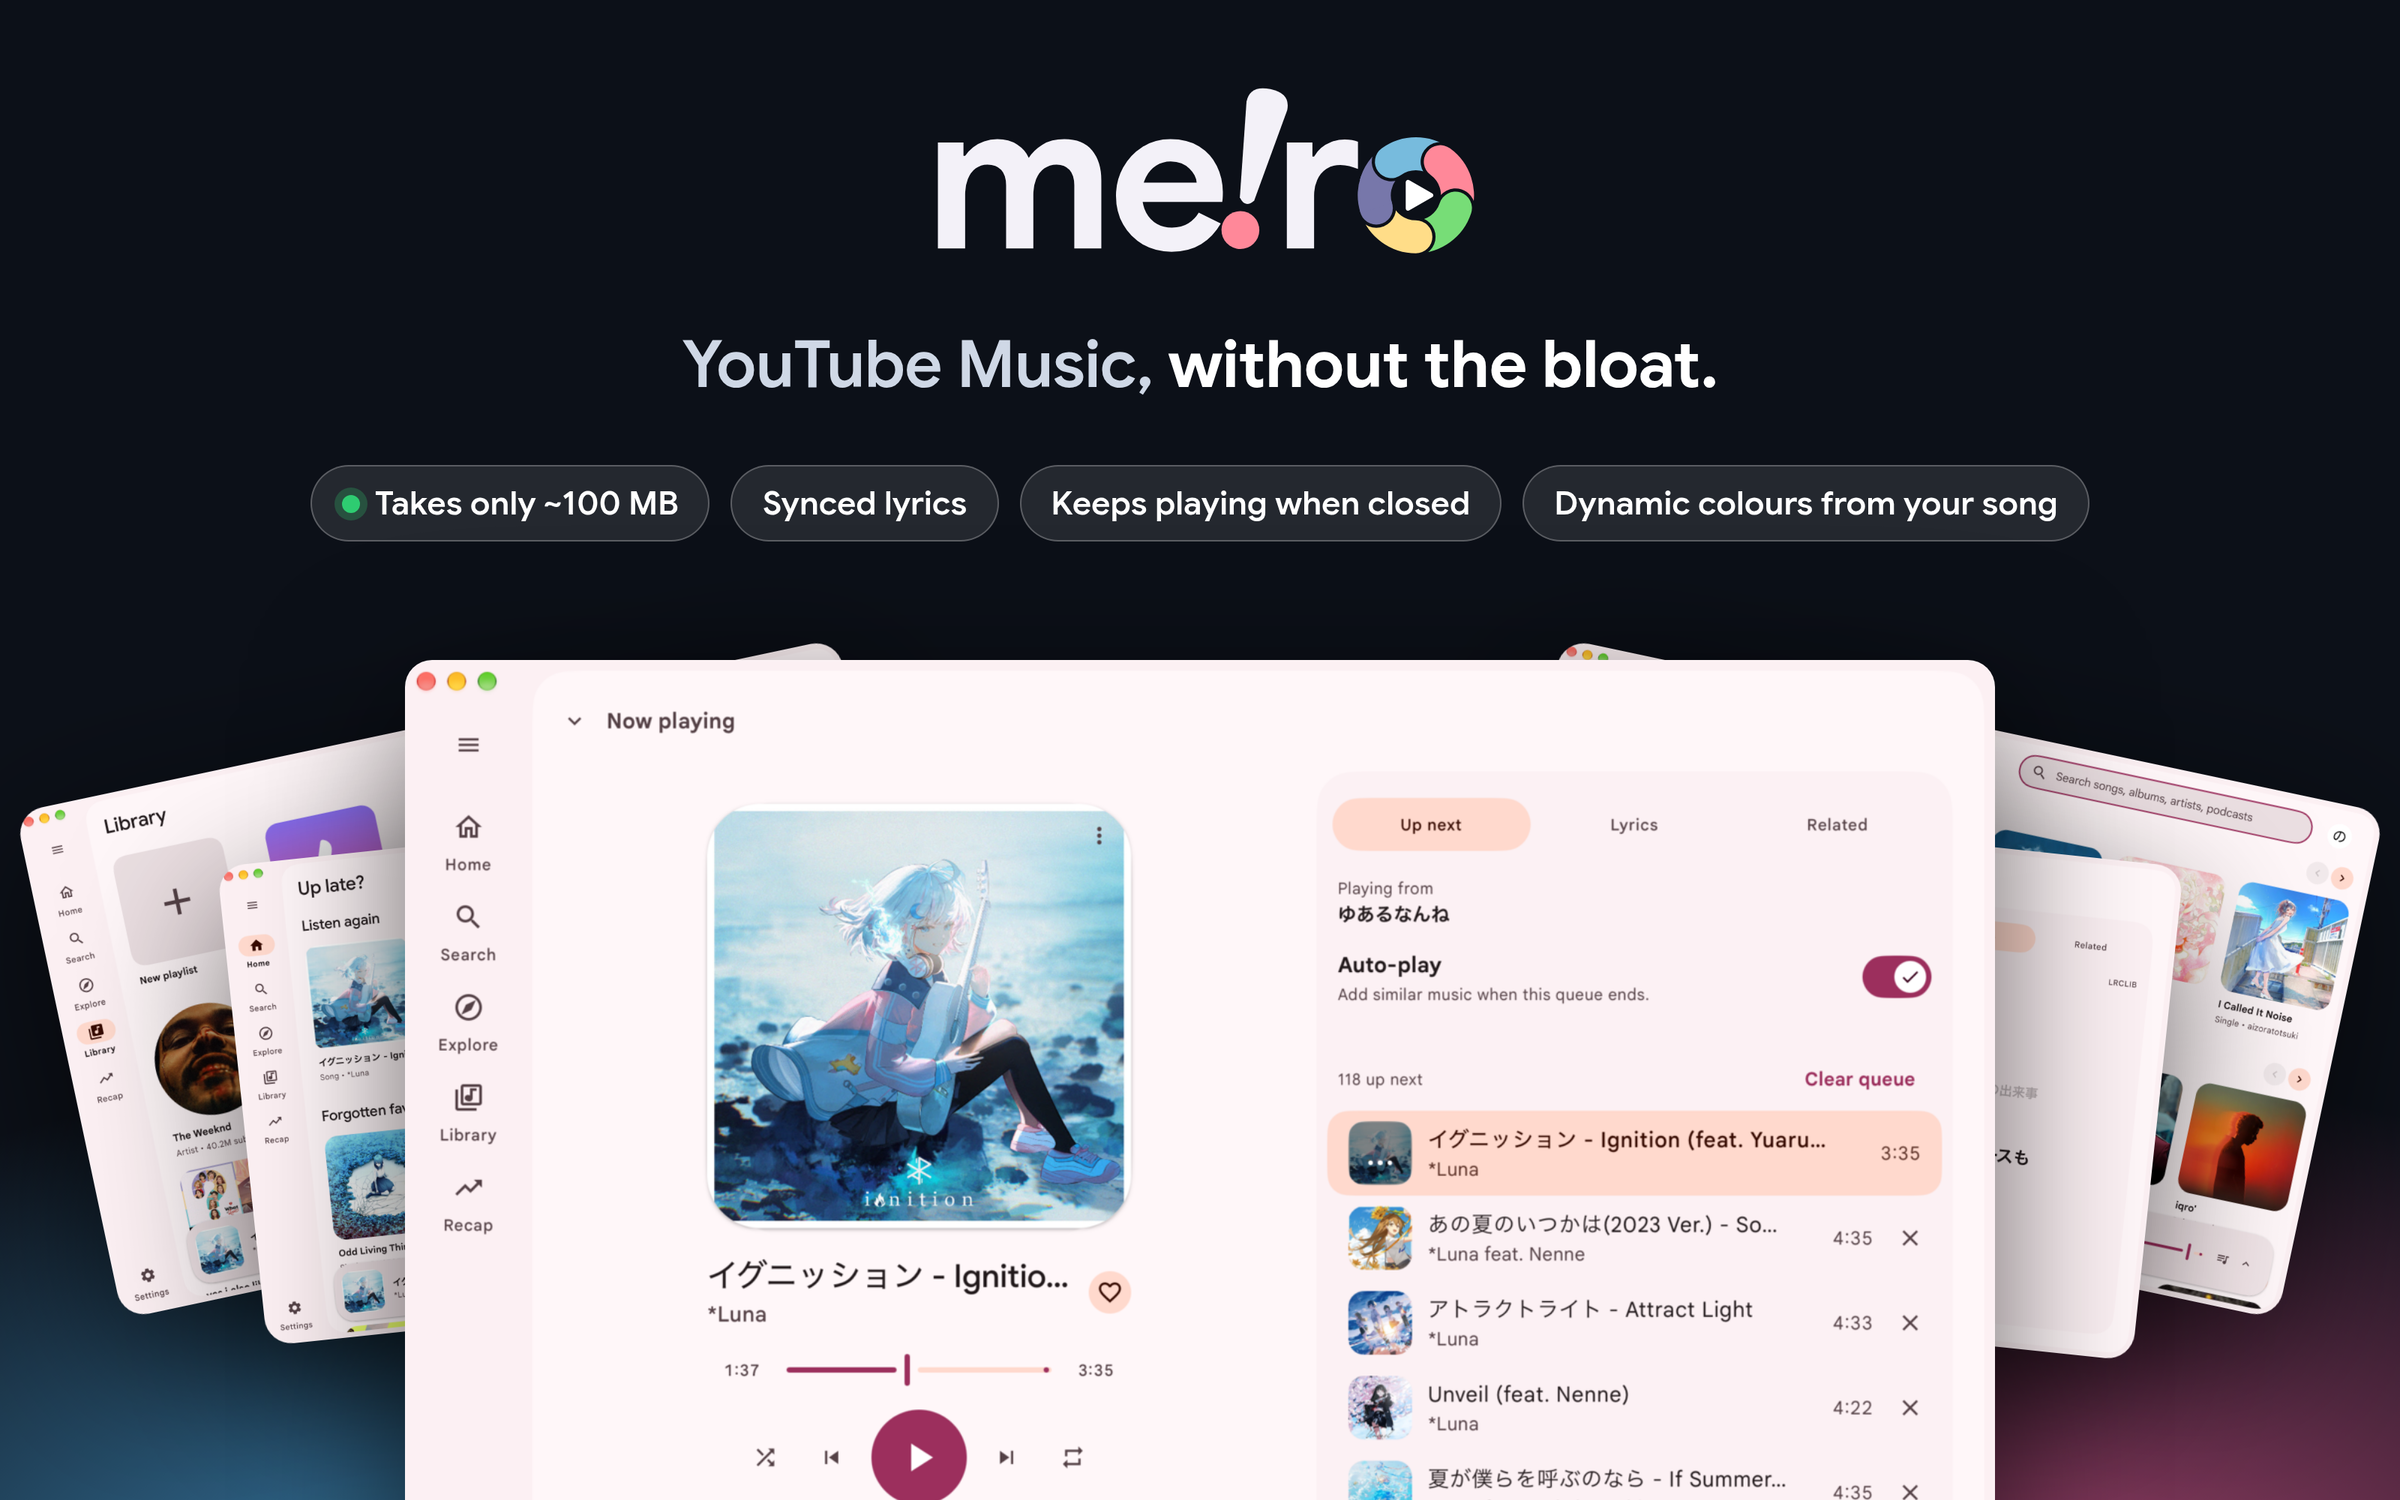
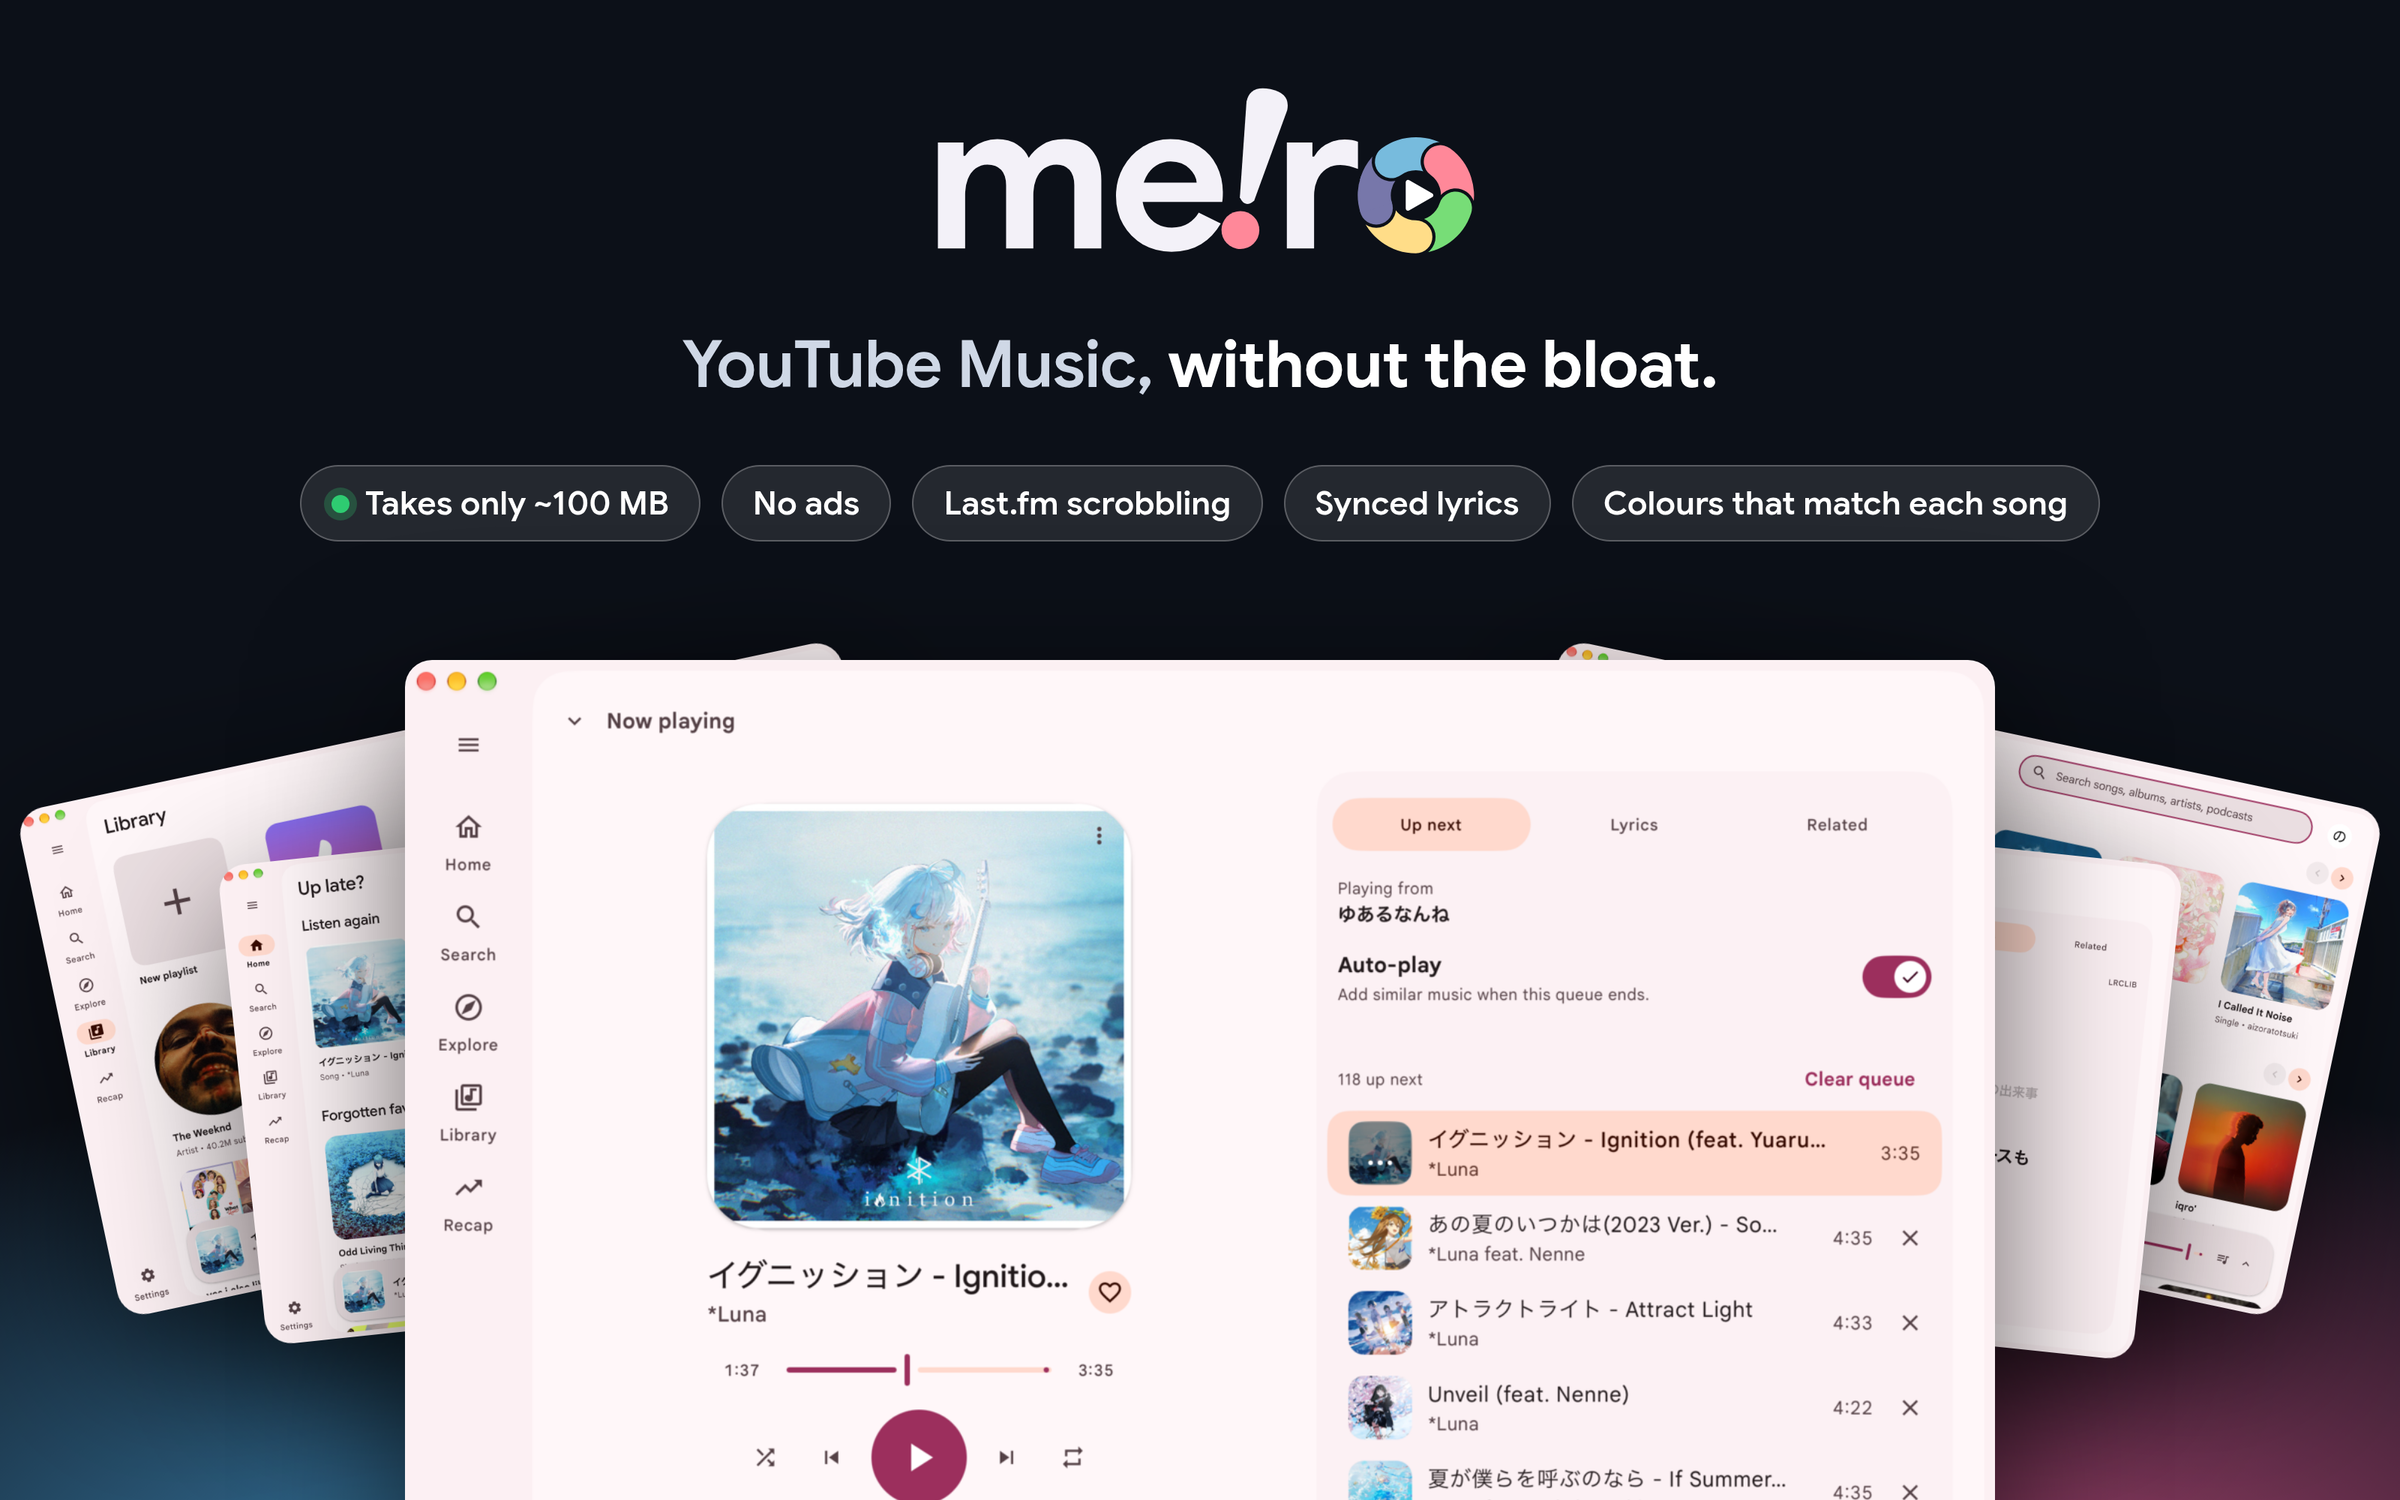
Promote no ads and Last.fm in the README and promo images (#167)
Replace the "keeps playing when closed" chip with "No ads" and
"Last.fm scrobbling", reword the colours chip, and re-render the images.

Amp-Thread-ID: https://ampcode.com/threads/T-01a14dae-c64f-766b-8792-0bc3ded82c04

Changed region(s): [[0.125, 0.3067, 0.875, 0.368]]

diff --git a/docs/promo/hero-dark.html b/docs/promo/hero-dark.html
@@ -21,4 +21,4 @@ body { background: #0c1018; color: #fff; }
 <img class="wordmark" src="../brand/wordmark-dark.svg">
 <div class="tagline">YouTube Music, <b>without the bloat.</b></div>
 <img class="shot a" src="../screenshots/library.png"><img class="shot b" src="../screenshots/explore.png"><img class="shot d" src="../screenshots/home.png"><img class="shot e" src="../screenshots/lyrics.png"><img class="shot c" src="../screenshots/player.png">
-<div class="chips"><span class="chip"><i class=dot></i>Takes only ~100 MB</span><span class="chip">Synced lyrics</span><span class="chip">Keeps playing when closed</span><span class="chip">Dynamic colours from your song</span></div>
+<div class="chips"><span class="chip"><i class=dot></i>Takes only ~100 MB</span><span class="chip">No ads</span><span class="chip">Last.fm scrobbling</span><span class="chip">Synced lyrics</span><span class="chip">Colours that match each song</span></div>

diff --git a/docs/promo/hero-light.html b/docs/promo/hero-light.html
@@ -19,4 +19,4 @@ body { background: #f8fafc; }
 <img class="wordmark" src="../brand/wordmark-light.svg">
 <div class="tagline">YouTube Music, <b>without the bloat.</b></div>
 <img class="shot a" src="../screenshots/library.png"><img class="shot b" src="../screenshots/explore.png"><img class="shot d" src="../screenshots/home.png"><img class="shot e" src="../screenshots/lyrics.png"><img class="shot c" src="../screenshots/player.png">
-<div class="chips"><span class="chip"><i class=dot></i>Takes only ~100 MB</span><span class="chip">Synced lyrics</span><span class="chip">Keeps playing when closed</span><span class="chip">Dynamic colours from your song</span></div>
+<div class="chips"><span class="chip"><i class=dot></i>Takes only ~100 MB</span><span class="chip">No ads</span><span class="chip">Last.fm scrobbling</span><span class="chip">Synced lyrics</span><span class="chip">Colours that match each song</span></div>

diff --git a/docs/promo/social-light.html b/docs/promo/social-light.html
@@ -14,7 +14,7 @@ body{background:#f8fafc}.glow{position:absolute;left:0;right:0;bottom:-150px;hei
 <div class="glow"></div>
 <img class="wordmark" src="../brand/wordmark-light.svg">
 <div class="tag">YouTube Music,<br><b>without the bloat.</b></div>
-<div class="chips"><span class="chip"><i class="dot"></i>Takes only ~100 MB</span><span class="chip">Synced lyrics</span><span class="chip">Keeps playing when closed</span><span class="chip">Dynamic colours from your song</span></div>
+<div class="chips"><span class="chip"><i class="dot"></i>Takes only ~100 MB</span><span class="chip">No ads</span><span class="chip">Last.fm scrobbling</span><span class="chip">Synced lyrics</span><span class="chip">Colours that match each song</span></div>
 <img class="shot a" src="../screenshots/library.png">
 <img class="shot b" src="../screenshots/explore.png">
 <img class="shot c" src="../screenshots/player.png">

diff --git a/docs/promo/social-dark.html b/docs/promo/social-dark.html
@@ -14,7 +14,7 @@ body{background:#0c1018;color:#fff}.glow{position:absolute;inset:0;background:ra
 <div class="glow"></div>
 <img class="wordmark" src="../brand/wordmark-dark.svg">
 <div class="tag">YouTube Music,<br><b>without the bloat.</b></div>
-<div class="chips"><span class="chip"><i class="dot"></i>Takes only ~100 MB</span><span class="chip">Synced lyrics</span><span class="chip">Keeps playing when closed</span><span class="chip">Dynamic colours from your song</span></div>
+<div class="chips"><span class="chip"><i class="dot"></i>Takes only ~100 MB</span><span class="chip">No ads</span><span class="chip">Last.fm scrobbling</span><span class="chip">Synced lyrics</span><span class="chip">Colours that match each song</span></div>
 <img class="shot a" src="../screenshots/library.png">
 <img class="shot b" src="../screenshots/explore.png">
 <img class="shot c" src="../screenshots/player.png">

diff --git a/README.md b/README.md
@@ -1,12 +1,14 @@
 <p align="center">
   <picture>
     <source media="(prefers-color-scheme: dark)" srcset="docs/promo/hero-dark.png">
-    <img alt="Meiro: YouTube Music, without the bloat. Takes only about 100 MB, synced lyrics, keeps playing when closed, dynamic colours from your song." src="docs/promo/hero-light.png" width="800">
+    <img alt="Meiro: YouTube Music, without the bloat. Takes only about 100 MB, no ads, Last.fm scrobbling, synced lyrics, colours that match each song." src="docs/promo/hero-light.png" width="800">
   </picture>
 </p>
 
 A native desktop player for YouTube Music. Meiro draws its own interface in a
-native window instead of using a Chromium-based web front end.
+native window instead of using a Chromium-based web front end. It plays only
+the audio of each song, so there are no ads, and it can send what you play to
+Last.fm.
 
 Meiro is very lightweight. It uses about 100 MB of RAM most of the time, and
 can go as low as about 99 MB, because there is no browser engine behind the
@@ -57,6 +59,8 @@ half of the title.
 
 ### Listen
 
+- **No ads.** Meiro plays the audio of the song itself, not the web page around
+  it, so no ad is ever loaded or played.
 - **Everything you expect from a player.** Play, pause, skip, shuffle, repeat,
   volume, and a queue you can see and change. A small player follows you while
   you browse, and the full player shows the queue, lyrics and related songs.
@@ -92,8 +96,8 @@ half of the title.
 
 ### Keep track of what you hear
 
-- **Last.fm.** Connect your Last.fm account and Meiro adds the songs you listen
-  to your profile. Pause it any time.
+- **Last.fm scrobbling.** Connect your Last.fm account and Meiro adds the songs
+  you listen to your profile. Pause it any time.
 - **Listening stats.** See how much you listened to, day by day. The history
   stays on your computer and you can delete it whenever you like.
 
